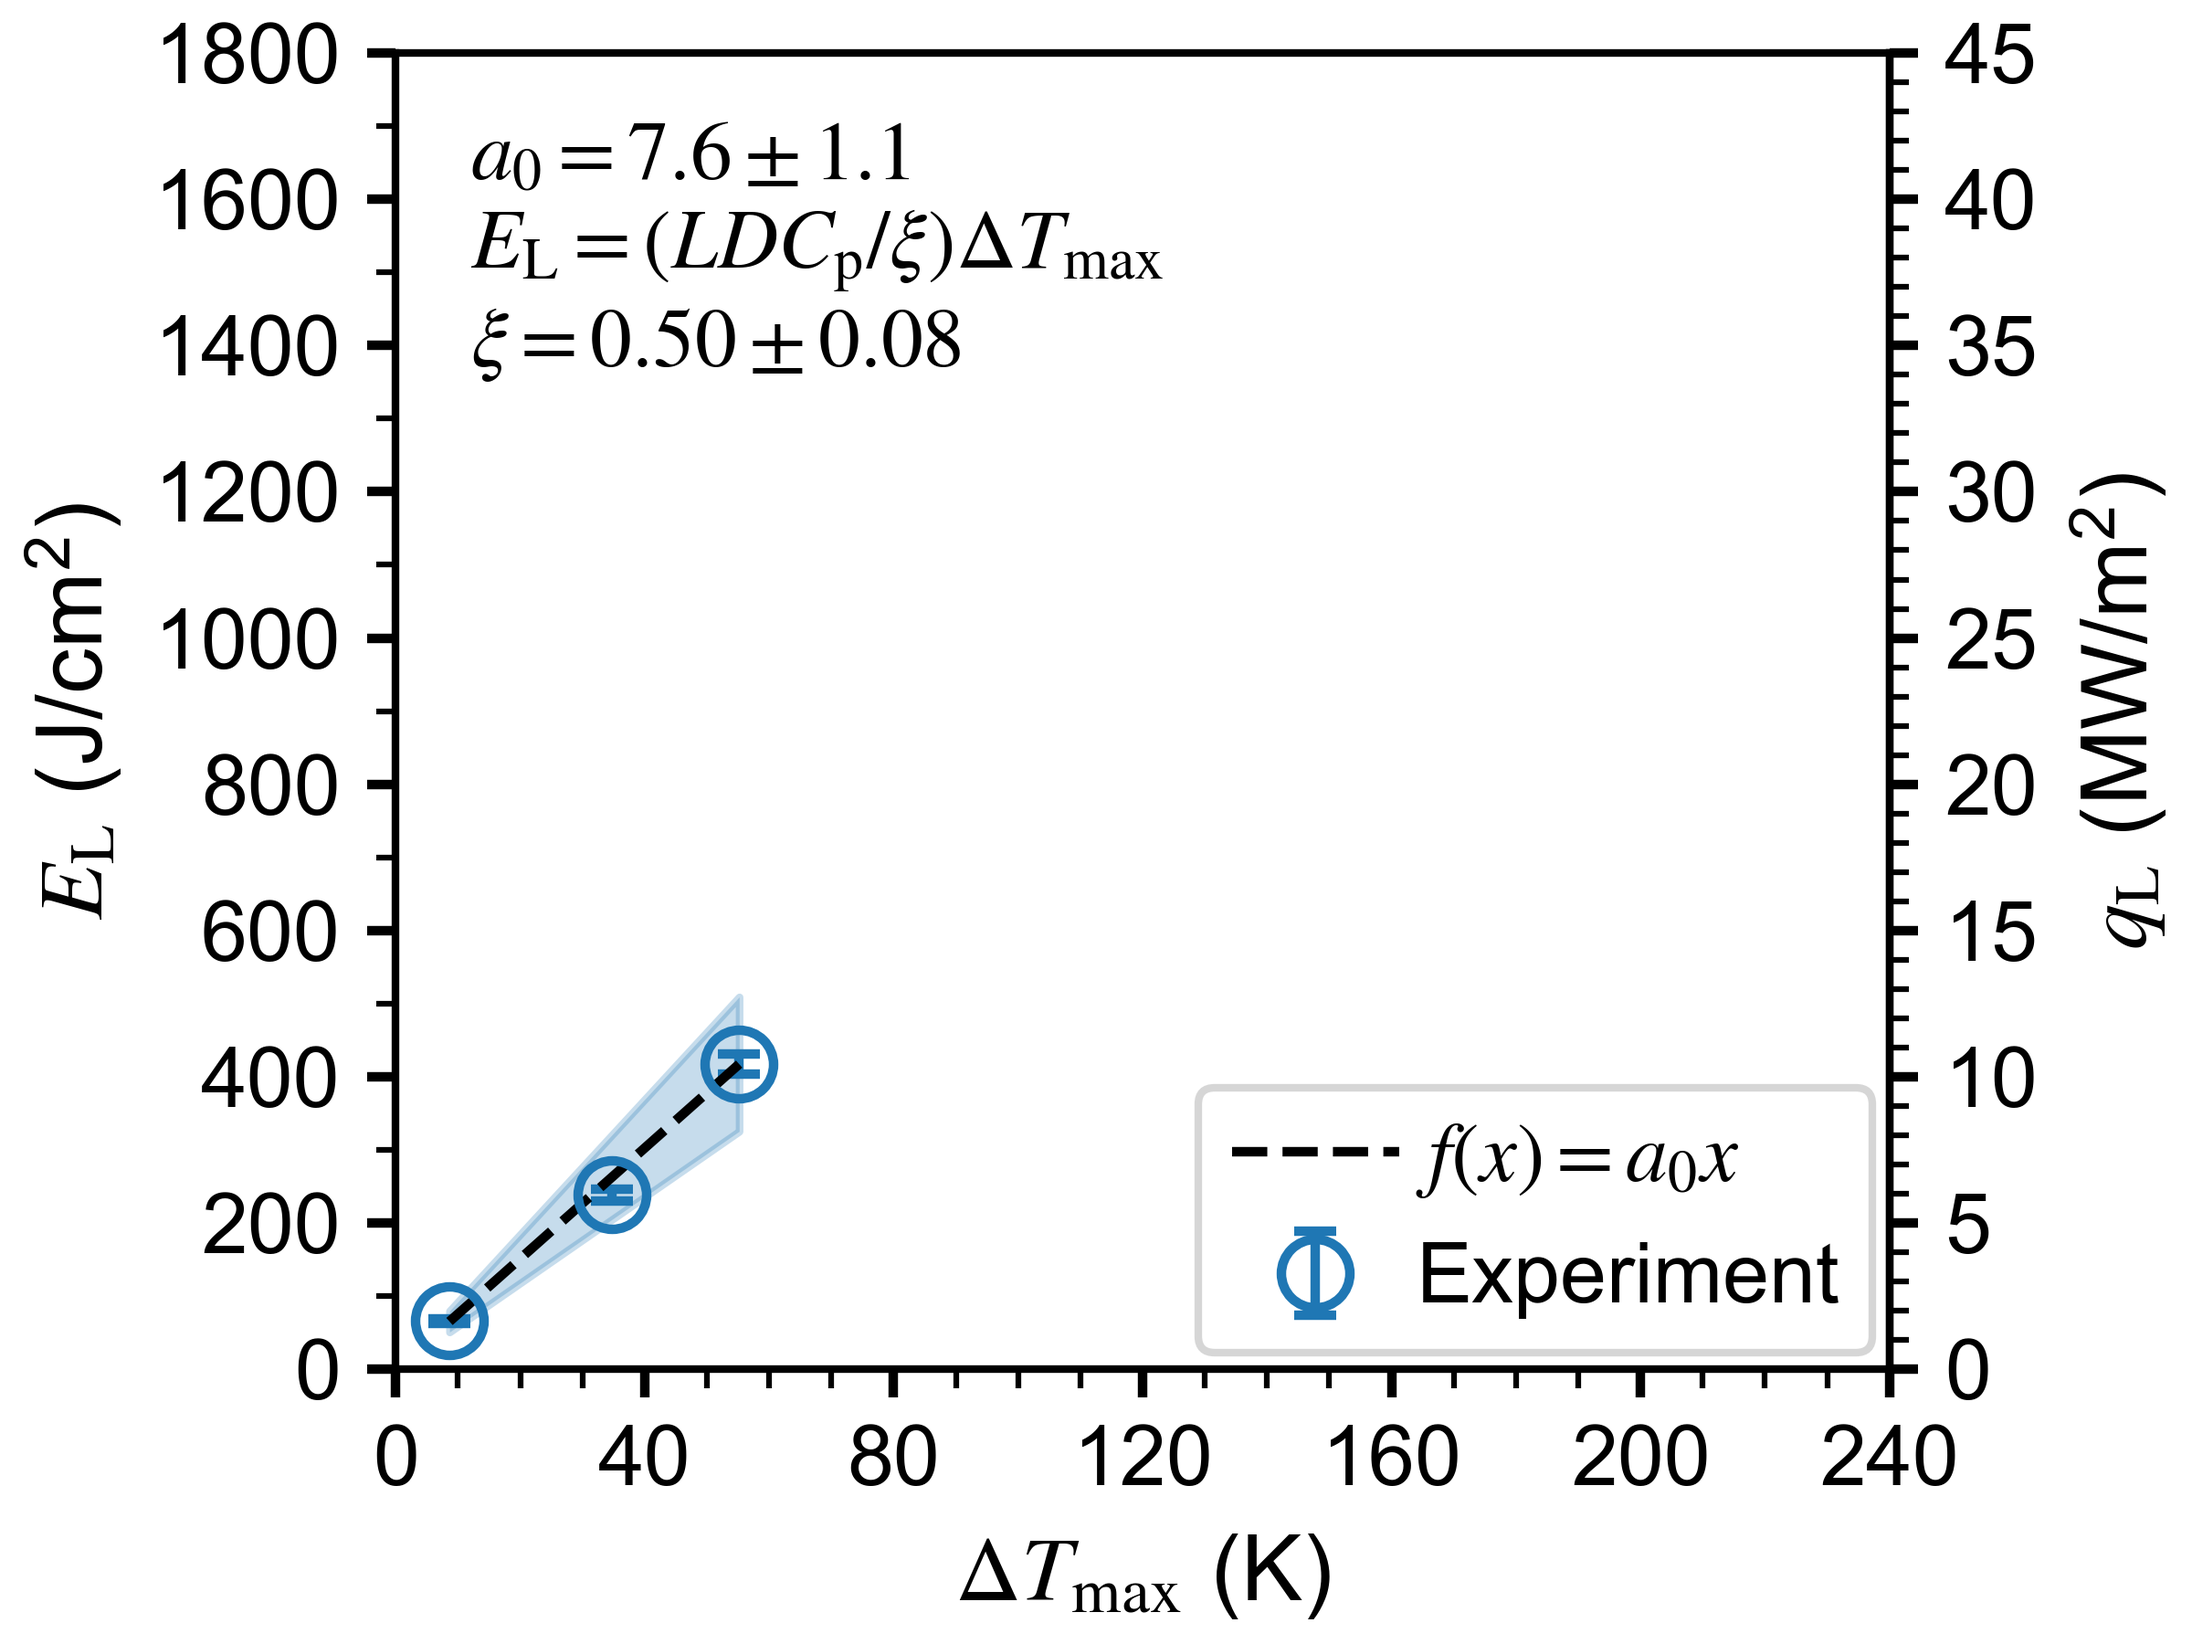
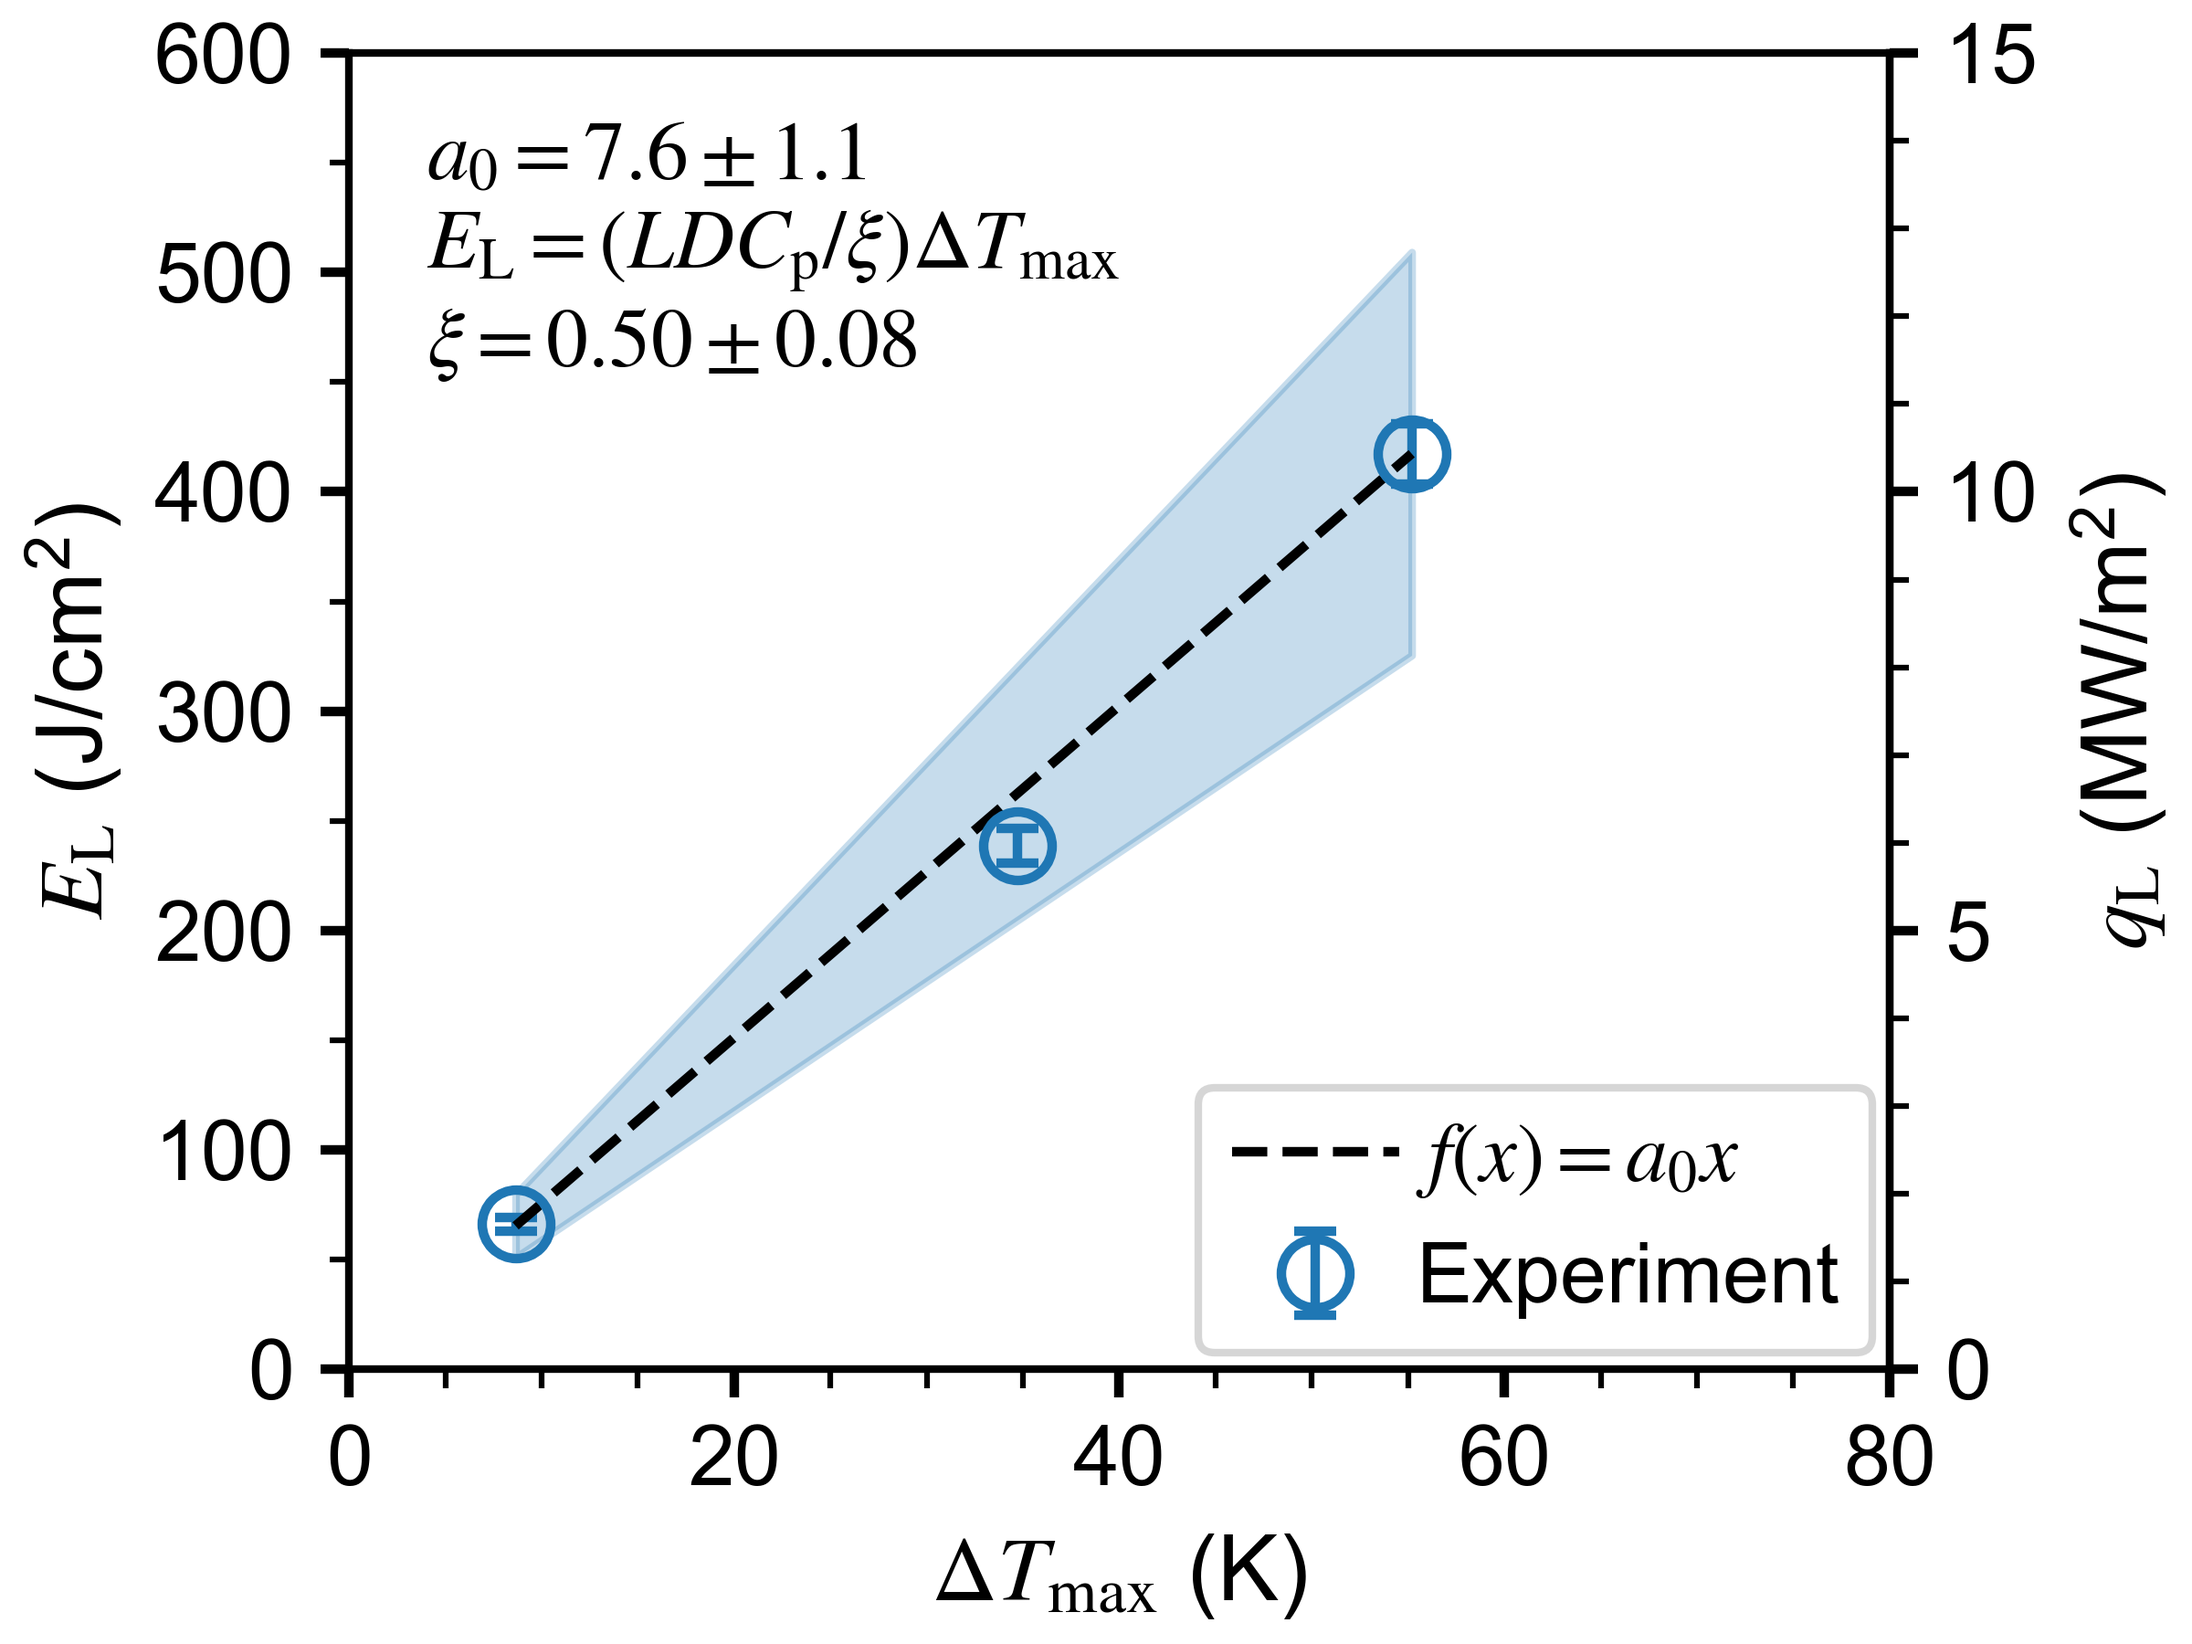
coated graphite

diff --git a/data_processing/thermal_conductivity/2024/flash_method_coated_graphite_20260711.py b/data_processing/thermal_conductivity/2024/flash_method_coated_graphite_20260711.py
@@ -456,13 +456,13 @@ def main():
         loc='lower right', frameon=True
     )
 
-    ax.set_xlim(0., 240.)
-    ax.set_ylim(0., 1800.)
+    ax.set_xlim(0., 80.)
+    ax.set_ylim(0., 600.)
 
-    ax.xaxis.set_major_locator(ticker.MultipleLocator(40.))
-    ax.xaxis.set_minor_locator(ticker.MultipleLocator(10.))
-    ax.yaxis.set_major_locator(ticker.MultipleLocator(200.))
-    ax.yaxis.set_minor_locator(ticker.MultipleLocator(100.))
+    ax.xaxis.set_major_locator(ticker.MultipleLocator(20.))
+    ax.xaxis.set_minor_locator(ticker.MultipleLocator(5.))
+    ax.yaxis.set_major_locator(ticker.MultipleLocator(100.))
+    ax.yaxis.set_minor_locator(ticker.MultipleLocator(50.))
     secaxy.yaxis.set_major_locator(ticker.MultipleLocator(5.))
     secaxy.yaxis.set_minor_locator(ticker.MultipleLocator(1.))
 
